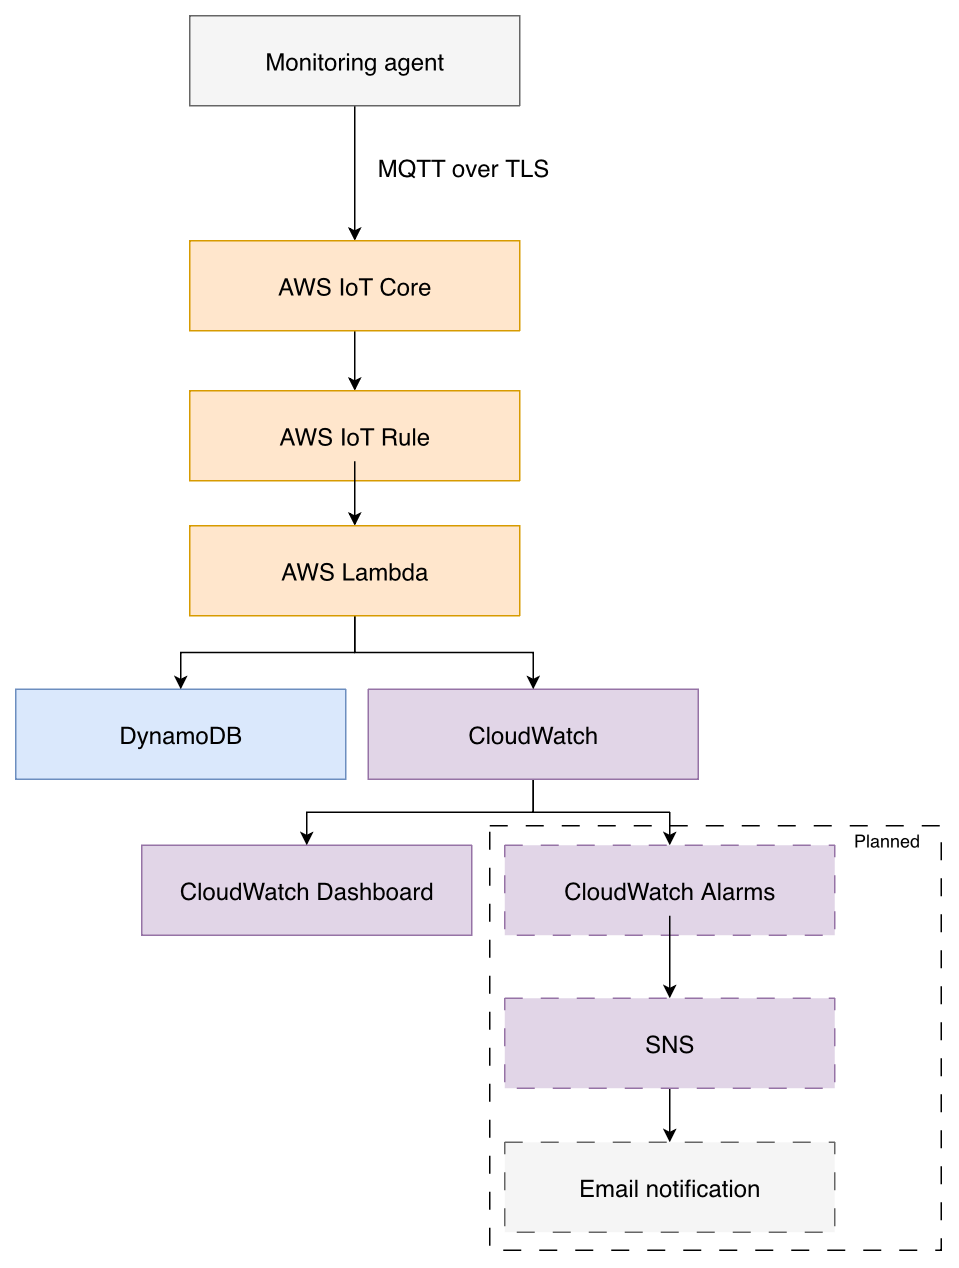
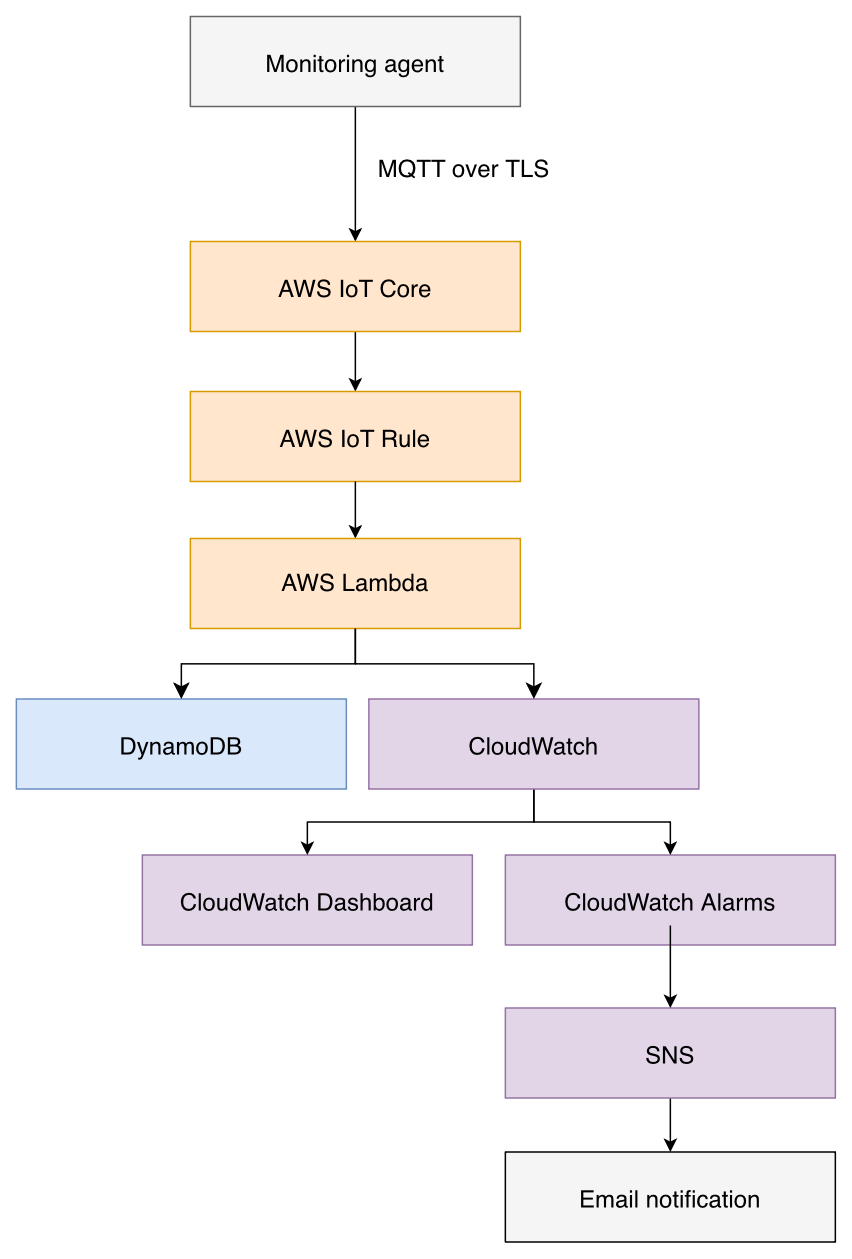
docs(architecture): add final HomePulse architecture diagram

diff --git a/README.md b/README.md
@@ -959,7 +959,7 @@ Test outage and recovery notifications
 * [x] CloudWatch dashboard
 * [x] CloudWatch alarms
 * [x] SNS email notifications
-* [ ] Final architecture diagram
+* [x] Final architecture diagram
 * [ ] Project documentation polish
 
 ### Version 2
